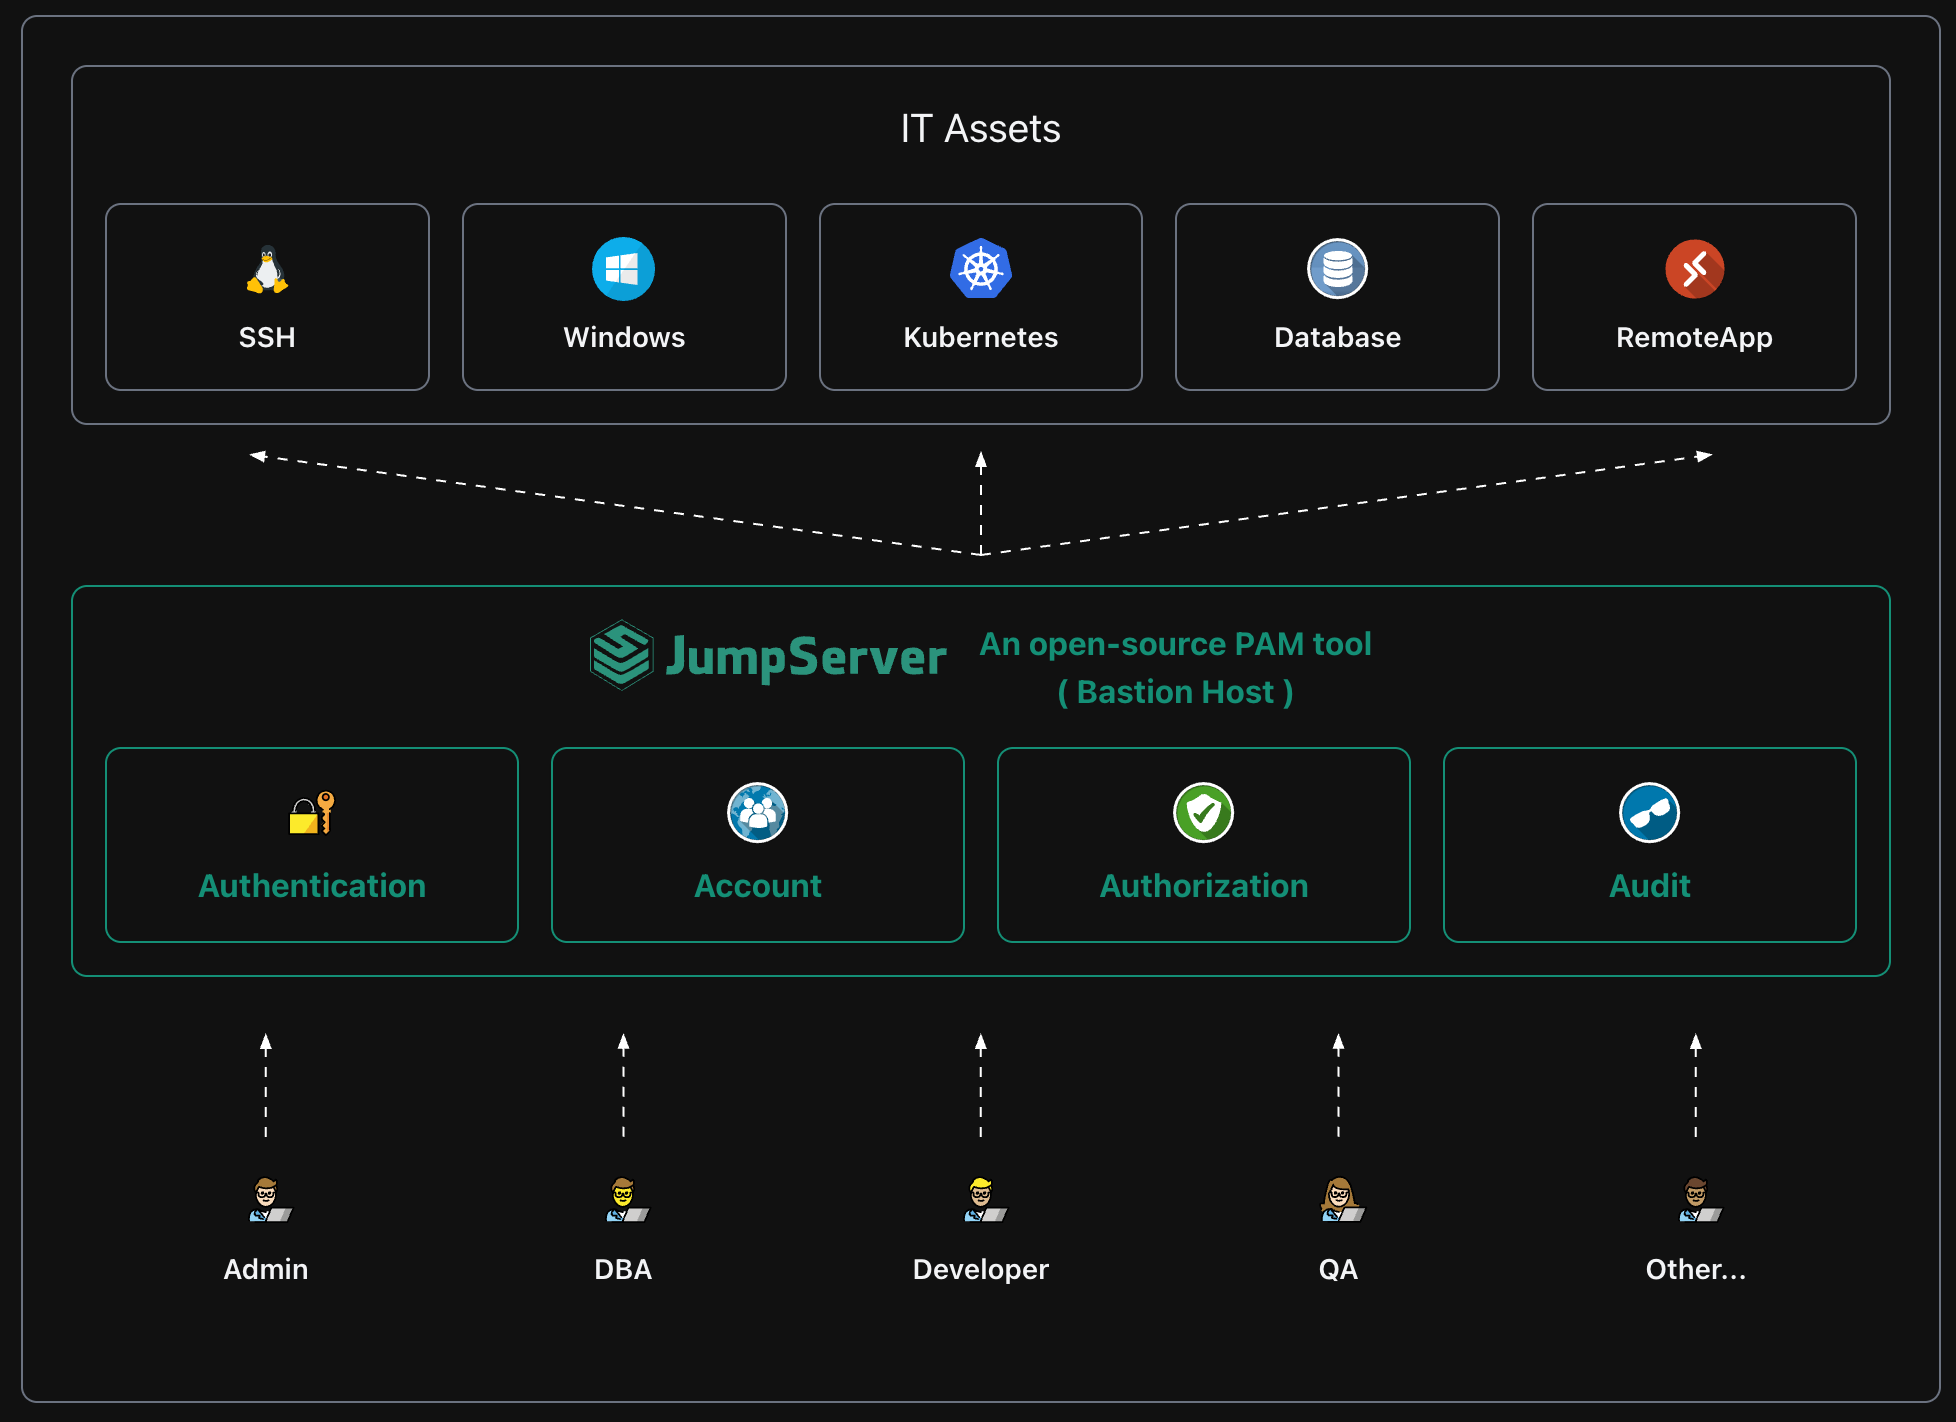
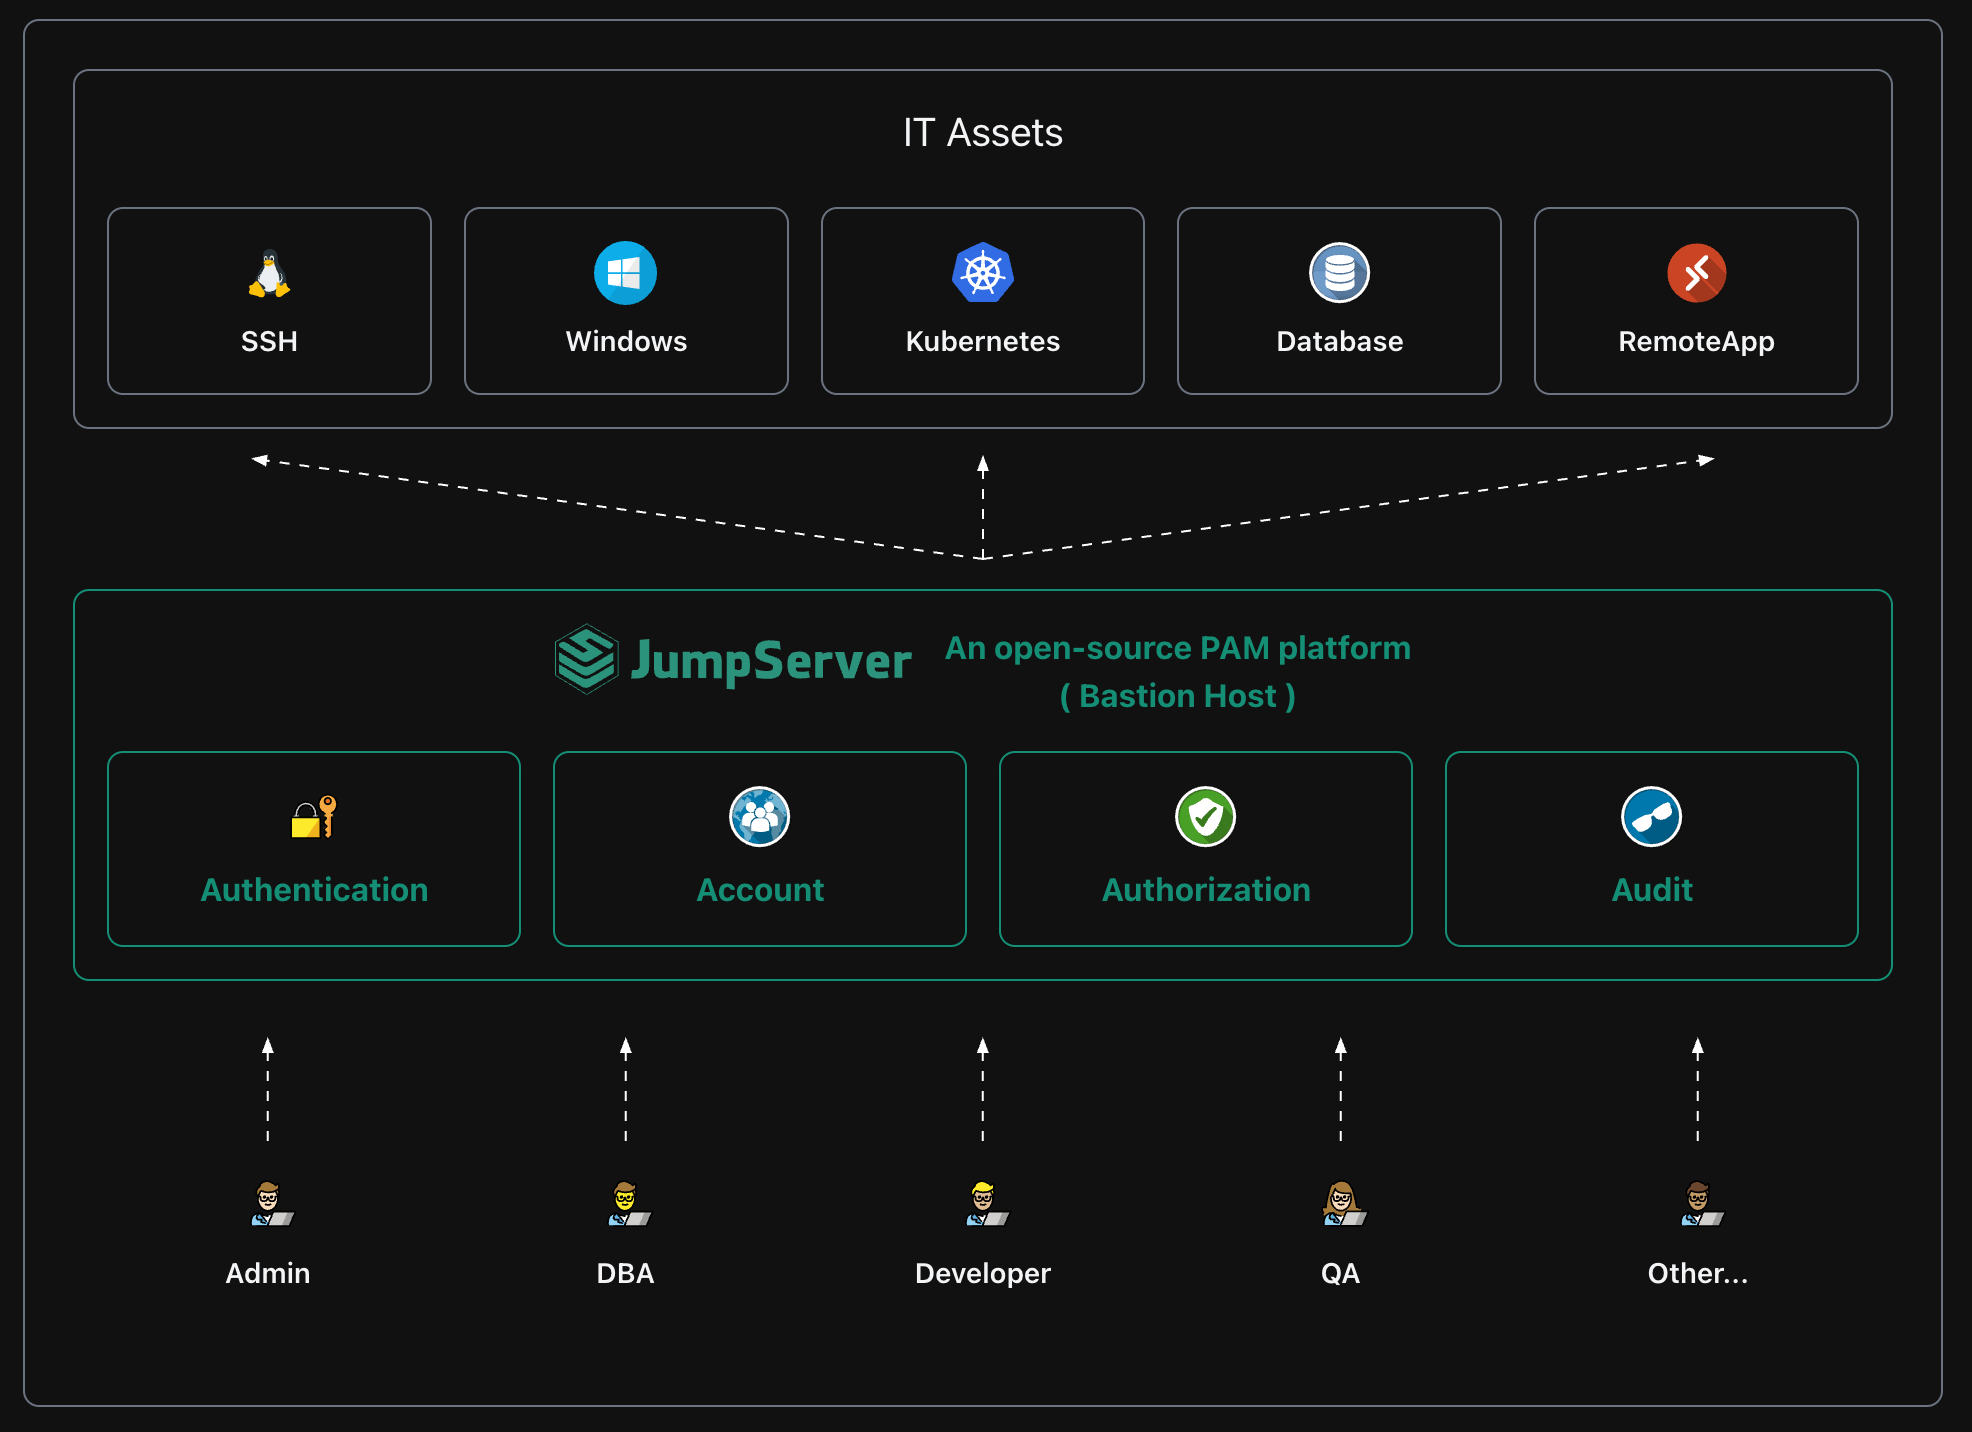
perf: tool - platform

diff --git a/theme.config.tsx b/theme.config.tsx
@@ -45,7 +45,7 @@ const config: DocsThemeConfig = {
       <meta property="og:title" content="JumpServer" />
       <meta
         property="og:description"
-        content="An open-source PAM tool (Bastion Host)"
+        content="An open-source PAM platform (Bastion Host)"
       />
       <link rel="icon" href="/favicon.svg" type="image/svg+xml" />
     </>
@@ -91,7 +91,7 @@ const config: DocsThemeConfig = {
     const { asPath } = useRouter();
     let titleTemplate = "%s - JumpServer";
     if (asPath == "/") {
-      titleTemplate = "An open-source PAM tool - JumpServer";
+      titleTemplate = "An open-source PAM platform - JumpServer";
     }
     return {
       titleTemplate: titleTemplate,

diff --git a/src/components/home/hero.tsx b/src/components/home/hero.tsx
@@ -24,7 +24,7 @@ export default function Hero() {
             </div>
           </a>
           <h1 className="mb-4 text-4xl font-extrabold leading-none tracking-tight text-gray-900 dark:text-white md:text-5xl lg:text-5xl">
-            An open-source PAM tool alternative to CyberArk
+            An open-source PAM platform alternative to CyberArk
           </h1>
           <p className="mb-8 mt-6 text-lg font-normal dark:text-gray-400 sm:px-16 lg:text-xl xl:px-48">
             JumpServer is an open-source Privileged Access Management (PAM) tool

diff --git a/src/components/home/architecture.tsx b/src/components/home/architecture.tsx
@@ -62,7 +62,7 @@ export const ArchitectureDiagram = () => {
           <div className="flex w-full flex-wrap justify-center gap-4">
             <JumpServerWordmarkLogoIcon className="h-9" />
             <div className="text-primary font-semibold text-md text-center">
-              <span className="block font-bold">An open-source PAM tool</span>
+              <span className="block font-bold">An open-source PAM platform</span>
               <span className="block font-bold">( Bastion Host )</span>
             </div>
           </div>
